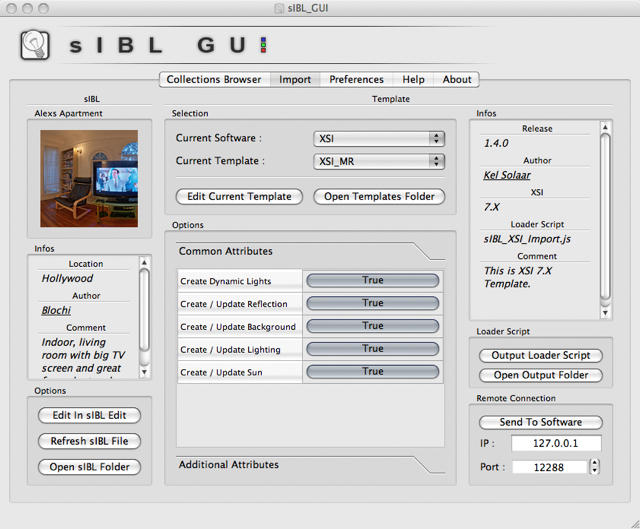
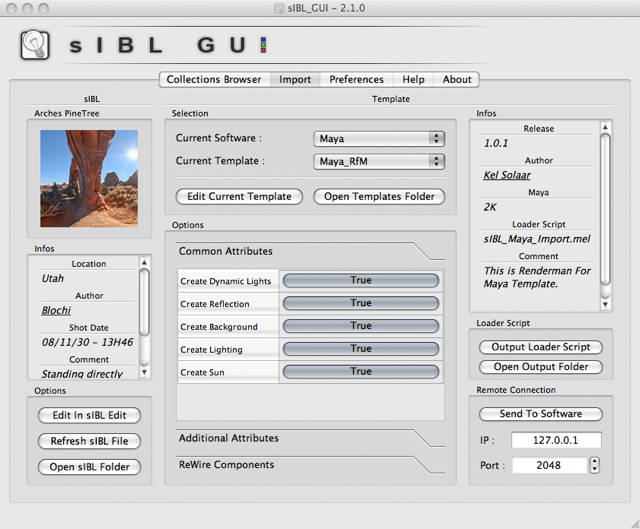
sIBL_GUI - 2.1.0 - Change Log -
- Manual / Help Files Updated, Change Log Updated, Versions Numbers Updated.

diff --git a/src/Help/sIBL_GUI/sIBL_GUI Manual.htm b/src/Help/sIBL_GUI/sIBL_GUI Manual.htm
@@ -227,7 +227,10 @@
                     <br/>
                     <br/>
                     <img src="Resources/sIBL_GUI%20-%20Import%20Tab.jpg">
-                    <p>
+                    <br/>
+                    <br/>
+					<img src="Resources/sIBL_GUI%20-%20Import%20Tab%20-%20ReWire.jpg">
+					<p>
                         <b>Import Tab</b>
                         is where you configure your <b>Loader Script</b>. You can choose your <b>Target 3D Package</b>
                         using one of the <b>Templates</b>, tweak options for the <b>Loader Script</b>, etc... On the left you will find informations and options for the selected <b>sIBL Set</b>, and on the right are options to tweak the <b>Template</b>
@@ -275,15 +278,7 @@
                                 : Edits the current Template in default Text Editor.
                                 <br/>
                                 Tips : You can define your Custom Text Editor in the Preferences Tab. Hardcoded Text Editors are : Notepad.exe on Windows, Gedit, Kwrite, Nedit, Mousepad on Linux and TextEdit on Mac Os X.
-                            </li>
-                            <li>
-                                <b>Common Attributes Page</b>
-                                : Common Attributes settings of the Loader Script.
-                            </li>
-                            <li>
-                                <b>Additional Attributes Page</b>
-                                : Additional Attributes settings of the Loader Script.
-                            </li>
+                            </li>           
                             <li>
                                 <b>Output Loader Script PushButton</b>
                                 : Outputs the Loader Script to the "TMP" ( Windows ) or "TMPDIR" ( Linux, MacOsX ) variable path.
@@ -307,6 +302,18 @@
                                 : Opened Port of the Target 3D Package.
                                 <br/>
                             </li>
+							<li>
+                                <b>Common Attributes Page</b>
+                                : Common Attributes settings of the Loader Script.
+                            </li>
+                            <li>
+                                <b>Additional Attributes Page</b>
+                                : Additional Attributes settings of the Loader Script.
+                            </li>
+							<li>
+                                <b>ReWire Components Page</b>
+                                : You can rewire the Background / Lighting / Reflection Component Images with each others or load a Custom Image for each of the Component. This allows you to mix you sIBL Sets, or kind of build them on the fly.
+                            </li>                           
                         </ul>
                     </p>
                     <br/>

diff --git a/Change Log/Change Log.htm b/Change Log/Change Log.htm
@@ -4,15 +4,21 @@
     </head>
     <body>
         <p align="center">
-            <span style="font-weight: 700; font-size: 24pt">s I B L _ G U I - 2 . 0 . 9 - S t a b l e</span>
+            <span style="font-weight: 700; font-size: 24pt">s I B L _ G U I - 2 . 1 . 0 - S t a b l e</span>
             <br/>
             <span style="font-weight: 700; font-size: 20pt">Change Log</span>
         </p>
         <span style="font-size: 18pt; font-weight: 700">Releases</span>
         <br/>
         <p align="justify">
-        <span style="font-size: 14pt; font-weight: 700">2.0.9 - Stable</span>
+        <span style="font-size: 14pt; font-weight: 700">2.1.0 - Stable</span>
         <ul>
+            <li>
+                New ReWire Widget in the Import Tab, you can now for example use the Lighting Image as Background or the Reflection one for the Lighting, it's even possible to load Custom Images so you can nearlly dynamically create your IBL on the fly.
+            </li>
+			<li>
+                Resorted sIBL_GUI Updater Columns.
+            </li>
             <li>
                 Refinements in sIBL_GUI UI.
             </li>
